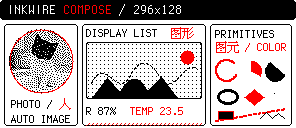
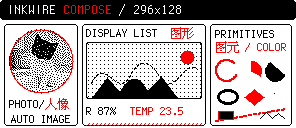
Say when text is cut off instead of cutting it silently
A disk page showed 260/3720G. The figure was 3260. The label column had
been narrowed a few pixels earlier to make room elsewhere, the leading
digit fell off the end, and nothing said so: layout overflow is reported,
text overflow was not. Prose cut short is visibly cut short, but a number
that loses a digit is still a number, still plausible, and gives no sign
that it is wrong. So does an identifier.

The first version of this check compared the laid-out size against the box
and found fifty-nine of them across the repository. Fifty-six were one to
four pixels on the vertical axis: a box sized to the letters rather than
to the descent and line gap below them, with every glyph drawn. Reporting
those would have buried the three that mattered. The test is therefore
whether the ascent of a line fits, which is where the glyph bodies are,
and whether the line is wider than its box.

That leaves three, all real, and all now fixed: two labels in showcases
that have been clipped since they were written, and the disk column that
started this.

Changed region(s): [[0.0304, 0.75, 0.2432, 0.875]]

diff --git a/internal/display/text_clip_test.go b/internal/display/text_clip_test.go
@@ -1,0 +1,112 @@
+package display
+
+import (
+	"image"
+	"testing"
+)
+
+func layout(t *testing.T, box image.Rectangle, wrap WrapMode, runs ...TextRun) *TextLayout {
+	t.Helper()
+	fonts, err := NewBuiltinFontRegistry()
+	if err != nil {
+		t.Fatal(err)
+	}
+	result, err := LayoutText(fonts, TextBox{Bounds: box, Runs: runs, Wrap: wrap})
+	if err != nil {
+		t.Fatal(err)
+	}
+	return result
+}
+
+func mono(text string, size int) TextRun {
+	return TextRun{Text: text, Style: TextStyle{Font: "monaco", Size: size, Ink: InkBlack}}
+}
+
+// The case this whole check exists for. A figure that loses its leading digit
+// is still a figure, and nothing on the panel suggests it is the wrong one.
+func TestAFigureTooWideForItsBoxIsReported(t *testing.T) {
+	// Monaco 12 advances 7 pixels, so ten characters need seventy.
+	narrow := layout(t, image.Rect(0, 0, 60, 15), NoWrap, mono("3260/3720G", 12))
+	columns, lines := narrow.Clipped()
+	if columns != 10 {
+		t.Errorf("columns = %d, want the ten pixels that do not fit", columns)
+	}
+	if lines != 0 {
+		t.Errorf("lines = %d, want none: it is one line", lines)
+	}
+
+	wide := layout(t, image.Rect(0, 0, 70, 15), NoWrap, mono("3260/3720G", 12))
+	if columns, lines := wide.Clipped(); columns != 0 || lines != 0 {
+		t.Errorf("a box that fits reported %d columns and %d lines", columns, lines)
+	}
+}
+
+// Measured across this repository, fifty-six of fifty-nine overflows were a
+// box sized to the letters rather than to the descent and line gap below them.
+// Every glyph was drawn. Reporting those would bury the three that mattered.
+func TestABoxSizedToTheLettersIsNotClipped(t *testing.T) {
+	fonts, err := NewBuiltinFontRegistry()
+	if err != nil {
+		t.Fatal(err)
+	}
+	set, ok := fonts.Match("monaco", 12)
+	if !ok {
+		t.Fatal("monaco 12 is missing")
+	}
+	metrics := set.Metrics()
+	full := metrics.Ascent + metrics.Descent + metrics.LineGap
+	if full <= metrics.Ascent {
+		t.Fatalf("metrics %+v leave no descent or gap to test with", metrics)
+	}
+
+	// A box exactly as tall as the ascent: the glyph bodies fit, the gap
+	// below them does not.
+	tight := layout(t, image.Rect(0, 0, 200, metrics.Ascent), NoWrap, mono("/backup", 12))
+	if _, lines := tight.Clipped(); lines != 0 {
+		t.Errorf("a box of %d pixels reported %d lines lost, but the ascent is %d",
+			metrics.Ascent, lines, metrics.Ascent)
+	}
+	// One pixel short of the ascent is a real loss.
+	shorter := layout(t, image.Rect(0, 0, 200, metrics.Ascent-1), NoWrap, mono("/backup", 12))
+	if _, lines := shorter.Clipped(); lines != 1 {
+		t.Errorf("a box one pixel under the ascent reported %d lines lost, want 1", lines)
+	}
+}
+
+// Wrapped text in a box too short does lose whole lines, and that has to be
+// reported: the missing lines are content the author asked for.
+func TestWrappedLinesThatDoNotFitAreCounted(t *testing.T) {
+	const sentence = "the quick brown fox jumps over the lazy dog again and again"
+	tall := layout(t, image.Rect(0, 0, 100, 200), WrapRunes, mono(sentence, 12))
+	if tall.LineCount() < 4 {
+		t.Fatalf("the sample wrapped to %d lines, too few to test with", tall.LineCount())
+	}
+	if _, lines := tall.Clipped(); lines != 0 {
+		t.Fatalf("a box with room to spare reported %d lines lost", lines)
+	}
+
+	short := layout(t, image.Rect(0, 0, 100, 34), WrapRunes, mono(sentence, 12))
+	_, lines := short.Clipped()
+	if lines == 0 {
+		t.Fatal("a box holding two of the lines reported nothing lost")
+	}
+	if shown := short.LineCount() - lines; shown < 1 {
+		t.Errorf("reported %d of %d lines lost, which leaves nothing drawn",
+			lines, short.LineCount())
+	}
+}
+
+func TestOverflowAndClippedDisagreeOnPurpose(t *testing.T) {
+	fonts, _ := NewBuiltinFontRegistry()
+	set, _ := fonts.Match("monaco", 12)
+	metrics := set.Metrics()
+
+	// Sized to the ascent: overflowing on the raw measurement, losing nothing.
+	result := layout(t, image.Rect(0, 0, 200, metrics.Ascent), NoWrap, mono("ok", 12))
+	if over := result.Overflow(); over.Y == 0 {
+		t.Fatal("the sample does not overflow, so it cannot show the difference")
+	}
+	if _, lines := result.Clipped(); lines != 0 {
+		t.Errorf("Clipped agreed with Overflow; the point of it is that it does not")
+	}
+}

diff --git a/internal/compose/document_test.go b/internal/compose/document_test.go
@@ -303,3 +303,64 @@ func assertFrameInk(t *testing.T, frame *display.Frame, x, y int, want display.I
 		t.Fatalf("pixel (%d,%d) = %d, want %d", x, y, got, want)
 	}
 }
+
+// The clipping check lives in display; this is the wiring that turns it into
+// something a caller sees. Without a test here, deleting the wiring leaves
+// every other test passing while the panel quietly shows a wrong number.
+func TestClippedTextIsReported(t *testing.T) {
+	compiler, err := NewDefaultCompiler()
+	if err != nil {
+		t.Fatal(err)
+	}
+	document := Document{Root: Absolute{Children: []Placed{{
+		// Ten characters of Monaco 12 need seventy pixels.
+		Bounds: image.Rect(0, 0, 40, 15),
+		Node: Text{Runs: []display.TextRun{{
+			Text:  "3260/3720G",
+			Style: display.TextStyle{Font: "monaco", Size: 12, Ink: display.InkBlack},
+		}}},
+	}}}}
+	_, report, err := compiler.Compile(document)
+	if err != nil {
+		t.Fatal(err)
+	}
+	var clipped *Warning
+	for index, warning := range report.Warnings {
+		if warning.Code == "text-clipped" {
+			clipped = &report.Warnings[index]
+		}
+	}
+	if clipped == nil {
+		t.Fatalf("no text-clipped warning; report has %v", report.Warnings)
+	}
+	if !strings.Contains(clipped.Message, "3260/3720G") {
+		t.Errorf("the warning does not name the text that was cut: %q", clipped.Message)
+	}
+	if clipped.Path == "" {
+		t.Error("the warning does not say which node was cut")
+	}
+}
+
+// Text that fits must stay silent, or the warning is noise and gets ignored.
+func TestTextThatFitsIsNotReported(t *testing.T) {
+	compiler, err := NewDefaultCompiler()
+	if err != nil {
+		t.Fatal(err)
+	}
+	document := Document{Root: Absolute{Children: []Placed{{
+		Bounds: image.Rect(0, 0, 200, 15),
+		Node: Text{Runs: []display.TextRun{{
+			Text:  "3260/3720G",
+			Style: display.TextStyle{Font: "monaco", Size: 12, Ink: display.InkBlack},
+		}}},
+	}}}}
+	_, report, err := compiler.Compile(document)
+	if err != nil {
+		t.Fatal(err)
+	}
+	for _, warning := range report.Warnings {
+		if warning.Code == "text-clipped" {
+			t.Errorf("text that fits was reported as clipped: %s", warning.Message)
+		}
+	}
+}

diff --git a/internal/display/text.go b/internal/display/text.go
@@ -185,6 +185,46 @@ func (l *TextLayout) MissingRunes() []rune {
 	return slices.Clone(l.missing)
 }
 
+// Overflow reports how far the laid-out text exceeds the box it was given, in
+// pixels on each axis, and the zero point when it fits.
+func (l *TextLayout) Overflow() image.Point {
+	available := l.box.Bounds.Size()
+	return image.Pt(max(0, l.width-available.X), max(0, l.height-available.Y))
+}
+
+// Clipped reports whether drawing will actually lose content, which is not the
+// same as overflowing the box.
+//
+// Measured across the scenes in this repository, fifty-six of fifty-nine
+// overflows were one to four pixels on the vertical axis: the line's descent
+// and gap reaching past a box sized to the glyphs, with every glyph still
+// drawn. Warning about those would bury the three that mattered. So the test
+// is whether a whole line goes missing, or whether the line is wider than the
+// box and characters fall off the end.
+//
+// Losing characters is the case worth catching. Prose cut short is visibly cut
+// short; a figure of 3260 clipped to 260 is still a number, still plausible,
+// and gives no sign that it is wrong.
+func (l *TextLayout) Clipped() (columns, lines int) {
+	available := l.box.Bounds.Size()
+	if l.width > available.X {
+		columns = l.width - available.X
+	}
+	// A line counts as lost only when its ascent will not fit, because the
+	// ascent is where the glyph bodies are. Measuring against the full line
+	// height instead reports a loss whenever a box is sized to the letters
+	// rather than to the descent and line gap below them, which is most
+	// single-line labels in this repository and none of them is clipped.
+	used := 0
+	for index, line := range l.lines {
+		if used+line.ascent > available.Y {
+			return columns, len(l.lines) - index
+		}
+		used += line.height
+	}
+	return columns, 0
+}
+
 func (l *TextLayout) Draw(canvas *Canvas) {
 	if canvas == nil || len(l.lines) == 0 {
 		return

diff --git a/internal/compose/content.go b/internal/compose/content.go
@@ -59,7 +59,22 @@ func (t Text) paint(ctx *compileContext, list *display.DisplayList, bounds stdim
 		return fmt.Errorf("%s: %w", path, err)
 	}
 	ctx.addMissing(path, layout.MissingRunes())
+	if columns, lines := layout.Clipped(); columns > 0 || lines > 0 {
+		ctx.warn(path, "text-clipped", fmt.Sprintf(
+			"%q does not fit %dx%d: %d pixels of the line and %d whole lines are cut off",
+			runText(t.Runs), bounds.Dx(), bounds.Dy(), columns, lines))
+	}
 	return nil
+}
+
+// runText joins the runs so a warning can name the text that was cut rather
+// than only the path to it.
+func runText(runs []display.TextRun) string {
+	var joined string
+	for _, run := range runs {
+		joined += run.Text
+	}
+	return joined
 }
 
 func (t Text) validate(path string) error {
